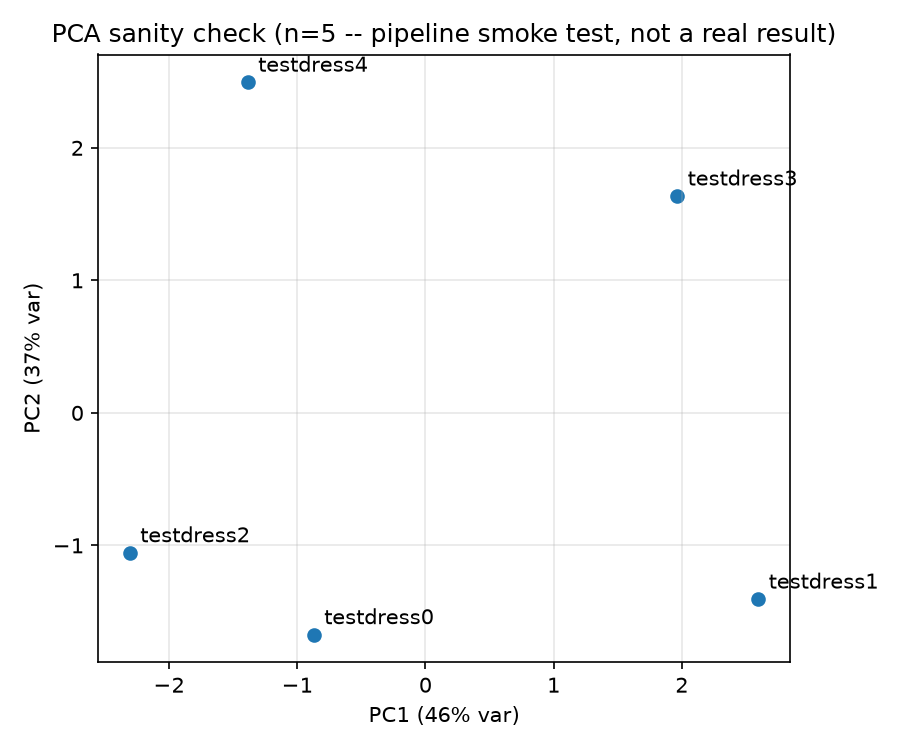
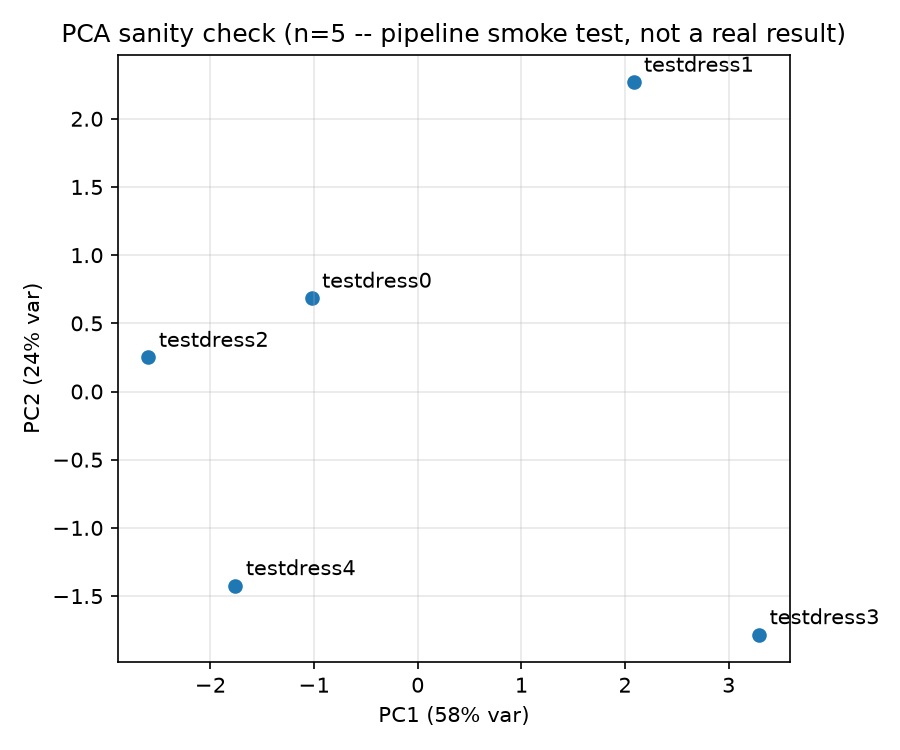
e

diff --git a/dense_features.py b/dense_features.py
@@ -1,0 +1,91 @@
+"""
+dense_features.py -- build one features.csv row straight from a dense
+RealityScan scan, skipping AutoRemesher retopology.
+
+Why: features from the retopologized mesh inherit its smoothing (surface_area
+~10% low, curvature magnitudes off by 0.6-1.7x, and volume undefined because
+of non-manifold quad poles). Decimating the dense scan instead keeps the real
+geometry and gives watertight meshes, so volume is defined. See
+experiments/dense_vs_retopo/ for the comparison.
+
+Pipeline: decimate_dense_textured.py (5M -> 100k faces) -> merge vertices by
+position (drops UV-seam splits so curvature sees a connected surface) ->
+connectivity check -> decimate_mesh.py to --target-vertices -> extract_features.
+
+Density is held fixed on purpose: curvature drifts systematically with mesh
+density (in a different direction per garment), but within 13k-17k vertices
+it varies only ~4% per garment vs a between-garment spread ~20x larger.
+
+The connectivity check fails on a fragmented scan (RealityScan's fold-collapse
+defect: coincident duplicate vertices leave the mesh in many pieces). Run
+weld_source.py on the raw scan first and pass the welded OBJ. Use
+--allow-open to override.
+
+Usage:
+    python dense_features.py --obj TestDress4.obj --garment-id testdress4 \\
+        --label "Test Dress 4" --out features.csv
+"""
+import argparse
+import os
+import subprocess
+import sys
+import tempfile
+
+import numpy as np
+import trimesh
+from scipy.sparse import coo_matrix
+from scipy.sparse.csgraph import connected_components
+
+import extract_features as ef
+
+HERE = os.path.dirname(os.path.abspath(__file__))
+
+
+def run_blender(script, *args):
+    subprocess.run(["blender", "--background", "--python", os.path.join(HERE, script), "--", *args],
+                   stdout=subprocess.DEVNULL, stderr=subprocess.DEVNULL, check=True)
+
+
+def connectivity(mesh):
+    f, n = mesh.faces, len(mesh.vertices)
+    a = np.concatenate([f[:, 0], f[:, 1], f[:, 2]])
+    b = np.concatenate([f[:, 1], f[:, 2], f[:, 0]])
+    _, labels = connected_components(coo_matrix((np.ones(len(a)), (a, b)), shape=(n, n)), directed=False)
+    sizes = np.bincount(labels[f[:, 0]])
+    edges = np.sort(mesh.edges, axis=1)
+    _, counts = np.unique(edges, axis=0, return_counts=True)
+    return int((sizes > 0).sum()), int((counts == 1).sum())
+
+
+def main():
+    p = argparse.ArgumentParser(description=__doc__, formatter_class=argparse.RawDescriptionHelpFormatter)
+    p.add_argument("--obj", required=True, help="Dense RealityScan OBJ (welded if the raw scan is fragmented)")
+    p.add_argument("--garment-id", required=True)
+    p.add_argument("--label", default="")
+    p.add_argument("--out", required=True, help="features.csv (row upserted)")
+    p.add_argument("--target-vertices", type=int, default=15000)
+    p.add_argument("--faces", type=int, default=100000, help="Intermediate dense decimation target (faces)")
+    p.add_argument("--allow-open", action="store_true", help="Continue even if the mesh is fragmented or has boundary edges")
+    a = p.parse_args()
+
+    with tempfile.TemporaryDirectory() as tmp:
+        dense, merged, final = (os.path.join(tmp, n) for n in ("dense.obj", "merged.obj", "final.obj"))
+        run_blender("decimate_dense_textured.py", a.obj, dense, str(a.faces))
+        raw = trimesh.load(dense, process=False, force="mesh")
+        m = trimesh.Trimesh(vertices=raw.vertices, faces=raw.faces, process=True)
+        components, boundary = connectivity(m)
+        print(f"  {a.garment_id}: {len(m.vertices)} verts, {len(m.faces)} faces, "
+              f"{components} component(s), {boundary} boundary edge(s), watertight={m.is_watertight}")
+        if (components > 1 or boundary > 0) and not a.allow_open:
+            sys.exit(f"ERROR: '{a.obj}' decimates to a fragmented/open mesh ({components} components, {boundary} boundary "
+                     "edges) -- curvature would be unreliable. Run weld_source.py on the raw scan and pass the welded OBJ, "
+                     "or use --allow-open to override.")
+        m.export(merged)
+        run_blender("decimate_mesh.py", "--input-obj", merged, "--output-obj", final, "--target-vertices", str(a.target_vertices))
+        row = ef.compute_features(ef.load_mesh(final), a.garment_id, a.label)
+        ef.upsert_row(a.out, row)
+    print(f"wrote row for '{a.garment_id}' to {a.out}")
+
+
+if __name__ == "__main__":
+    main()

diff --git a/pca_sanity_check.py b/pca_sanity_check.py
@@ -13,9 +13,11 @@ three garments.
 Eight columns are used: bbox_x/y/z, surface_area, mean_curvature,
 std_curvature, symmetry_score, and drape_extent (the latter two implemented
 2026-09-08 -- see extract_features.py's docstring for their definitions).
-`volume` is still all-NaN for every row (AutoRemesher's non-manifold quad
-poles, deliberately deferred) and is dropped rather than imputed --
-imputing a placeholder value would silently fabricate signal in a PCA.
+`volume` is added as a ninth column only when it has no NaNs (it was all-NaN
+for every row while features came from AutoRemesher's non-manifold retopology;
+meshes decimated from the dense scan are watertight so it is defined). If any
+row is NaN it is dropped rather than imputed -- imputing a placeholder value
+would silently fabricate signal in a PCA.
 num_vertices/num_faces are also excluded, for a different reason as of
 2026-09-08: now that every mesh is decimated to ~15,000 vertices before
 extraction (decimate_mesh.py), these columns are nearly constant across
@@ -48,13 +50,17 @@ def main():
     df = pd.read_csv(args.features)
     print(f"loaded {len(df)} rows from {args.features}")
 
-    dropped = [c for c in df.columns if c not in FEATURE_COLUMNS and c not in ("garment_id", "label")]
-    if dropped:
-        print(f"  dropping (NaN or density-confounded, not yet usable): {dropped}")
+    feature_columns = list(FEATURE_COLUMNS)
+    if "volume" in df.columns and not df["volume"].isna().any():
+        feature_columns.append("volume")
 
-    X = df[FEATURE_COLUMNS].to_numpy()
+    dropped = [c for c in df.columns if c not in feature_columns and c not in ("garment_id", "label")]
+    if dropped:
+        print(f"  dropping (NaN or uninformative, not used): {dropped}")
+
+    X = df[feature_columns].to_numpy()
     if np.isnan(X).any():
-        raise ValueError(f"unexpected NaN in {FEATURE_COLUMNS} -- these should all be well-defined columns")
+        raise ValueError(f"unexpected NaN in {feature_columns} -- these should all be well-defined columns")
 
     X_scaled = StandardScaler().fit_transform(X)
 
@@ -66,10 +72,9 @@ def main():
     print(f"cumulative: {np.cumsum(pca.explained_variance_ratio_)}")
     print(f"\nNOTE: n={len(df)} garments -- PCA rank-capped at {len(df) - 1} components.")
     print("This is a pipeline smoke test, not a statistically meaningful result.")
-    print("Revisit once the 5-garment Pilot Plan phase-2 target is reached.")
 
     print("\ncomponent loadings (how much each feature contributes to each PC):")
-    loadings = pd.DataFrame(pca.components_.T, index=FEATURE_COLUMNS,
+    loadings = pd.DataFrame(pca.components_.T, index=feature_columns,
                              columns=[f"PC{i+1}" for i in range(n_components)])
     print(loadings.round(3).to_string())
 

diff --git a/experiments/dense_vs_retopo/compare_feature_sources.py b/experiments/dense_vs_retopo/compare_feature_sources.py
@@ -1,0 +1,33 @@
+"""
+Compare features.csv (retopologized mesh, ~15k verts) against the same
+garments' features extracted from the dense RealityScan scan decimated to
+~15k verts (features_dense15k.csv) and to 100k faces (features_dense100k.csv).
+
+Inputs were built by: decimate_dense_textured.py (5M -> 100k faces; testdress0
+from its *welded* scan because the raw one is fragmented into ~1.5k pieces),
+trimesh merge-by-position (drops UV seam splits), decimate_mesh.py
+(--target-vertices 15000), then extract_features.py.
+
+Run from the repo root: python experiments/dense_vs_retopo/compare_feature_sources.py
+"""
+import pandas as pd
+from scipy.stats import pearsonr, spearmanr
+from sklearn.decomposition import PCA
+from sklearn.preprocessing import StandardScaler
+
+D = "experiments/dense_vs_retopo/"
+base = pd.read_csv("features.csv").set_index("garment_id").sort_index()
+d15 = pd.read_csv(D + "features_dense15k.csv").set_index("garment_id").sort_index()
+d100 = pd.read_csv(D + "features_dense100k.csv").set_index("garment_id").sort_index()
+feats = ["bbox_x", "bbox_y", "bbox_z", "surface_area", "mean_curvature", "std_curvature", "symmetry_score", "drape_extent"]
+pd.set_option("display.width", 200)
+
+print("ratio dense15k / retopo15k:\n", (d15[feats] / base[feats]).round(3))
+print("\nper-feature agreement retopo vs dense15k:")
+for f in feats:
+    print(f"  {f:15s} pearson {pearsonr(base[f], d15[f])[0]:.3f}  spearman {spearmanr(base[f], d15[f])[0]:.3f}")
+print("\ndensity sensitivity dense100k / dense15k:\n", (d100[feats[3:6]] / d15[feats[3:6]]).round(3))
+for name, df in (("retopo15k", base), ("dense15k", d15)):
+    p = PCA().fit(StandardScaler().fit_transform(df[feats]))
+    print(f"\n{name} PCA explained variance:", p.explained_variance_ratio_[:3].round(3))
+print("\nvolume (dense15k):", d15["volume"].round(0).to_dict())

diff --git a/README.md b/README.md
@@ -20,25 +20,29 @@ LTS) as a system install — it's a Blender script run via `blender
 
 ## Pipeline order
 
+Current flow (since 2026-09-23). Both branches start from the dense RealityScan
+OBJ + its texture; AutoRemesher retopology is no longer used by either.
+
 ```
-RealityScan export (OBJ)
-   ↓
-weld_source.py             <- this repo, run every scan
-   ↓
-AutoRemesher retopology
-   ↓
-bake_texture.py             <- this repo, via Blender, run every scan needing color
-   ↓
-assemble_textured_glb.py    <- this repo, run every scan needing color
-   ↓
-Blender preprocessing (crop/align)
-   ↓
-decimate_mesh.py            <- this repo, normalizes mesh density before extraction
-   ↓
-extract_features.py         <- this repo, upserts one row per garment into features.csv
-   ↓
-pca_sanity_check.py         <- this repo, PCA smoke test once a few rows exist
+RealityScan export (dense OBJ + diffuse texture)
+   |
+   +-- display:     dense_to_glb.py  ->  GLB for the frontend
+   |
+   +-- statistics:  weld_source.py      <- only if the scan is fragmented
+                       ↓                   (dense_features.py refuses those)
+                    dense_features.py   <- decimate -> merge -> connectivity
+                       ↓                   check -> 15k vertices ->
+                       ↓                   extract_features.py
+                    features.csv
+                       ↓
+                    pca_sanity_check.py <- PCA smoke test
 ```
+
+Retired for the display and statistics paths (kept as history and in case
+they're needed again): AutoRemesher retopology, `bake_texture.py`,
+`assemble_textured_glb.py`, and `decimate_mesh.py` as a standalone step
+(`dense_features.py` still calls it internally). Previous retopology-based
+results are in `features_retopo_v1.csv`.
 
 ## Scripts
 
@@ -248,13 +252,42 @@ Upserts one row per `--garment-id` into `features.csv` (re-running the same
 ID replaces that row rather than duplicating it). Computes bounding box,
 surface area, volume, and mean/std curvature; auto-corrects for a real
 per-scan Z-up vs Y-up inconsistency confirmed across garments in this
-project. `volume` is currently NaN for every garment — AutoRemesher's quad
-retopology leaves a handful of non-manifold edges even after `weld_source.py`
-closes all boundary edges, which fails `trimesh.is_watertight`'s stricter
-check; `symmetry_score`/`drape_extent` are undefined placeholders pending a
-methodology decision. See the project vault
+project. `symmetry_score` and `drape_extent` are implemented (see the
+docstring). `volume` was NaN for every garment while features came from the
+AutoRemesher mesh — its quad retopology leaves non-manifold edges that fail
+`trimesh.is_watertight` — but is defined for meshes decimated from the dense
+scan (see `dense_features.py` below). See the project vault
 (`concepts/garment-capture/garment-feature-extraction.md`) for the full
 gotcha writeup.
+
+### `dense_features.py`
+
+**How `features.csv` is now built (since 2026-09-23).** Builds a row straight
+from a dense RealityScan scan, skipping AutoRemesher:
+
+```bash
+python dense_features.py --obj TestDress4.obj --garment-id testdress4 \
+    --label "Test Dress 4" --out features.csv
+```
+
+Decimates the dense scan (5M -> 100k faces), merges vertices by position, checks
+connectivity, decimates to `--target-vertices` (default 15,000), and runs
+`extract_features`. Why: the retopologized mesh's smoothing biased the features
+(`surface_area` ~10% low, curvature 0.6-1.7x off, `volume` undefined); see
+`experiments/dense_vs_retopo/`. The **connectivity check refuses a fragmented
+or open mesh** (raw `TestDress0.obj` decimates to 1,548 pieces — RealityScan's
+fold-collapse defect), telling you to run `weld_source.py` first and pass the
+welded OBJ, as was done for `testdress0`.
+
+Density is held fixed deliberately: mean curvature drifts *systematically* with
+mesh density (differently per garment: `testdress3` 0.81 -> 0.94 from 13k to 50k
+vertices, `testdress1` 0.25 -> 0.22), but within 13k-17k vertices it varies
+only ~4% per garment vs a between-garment spread ~20x larger (signal-to-noise
+22-113 for every feature; `volume` is essentially exact). The 13k-17k band was
+more stable than 25k-50k on symmetry and drape, so 15k stays the target.
+
+`features_retopo_v1.csv` / `pca_sanity_check_retopo_v1.png` preserve the
+previous retopology-based results.
 
 ### `pca_sanity_check.py`
 
@@ -265,11 +298,11 @@ real statistical result until the 5-garment pilot target is reached):
 python pca_sanity_check.py --features features.csv --out pca_sanity_check.png
 ```
 
-Z-score standardizes the well-defined, non-NaN columns (`bbox_x/y/z`,
-`surface_area`, `mean_curvature`, `std_curvature`) and runs PCA, printing
-explained variance and component loadings and saving a labeled scatter
-plot. Deliberately excludes `volume`/`symmetry_score`/`drape_extent`
-(all-NaN so far — dropped rather than imputed, to avoid fabricating signal)
-and `num_vertices`/`num_faces` (density isn't normalized across garments
-yet, so these currently measure retopology resolution more than shape).
+Z-score standardizes eight columns (`bbox_x/y/z`, `surface_area`,
+`mean_curvature`, `std_curvature`, `symmetry_score`, `drape_extent`), plus
+`volume` when it has no NaNs, and runs PCA, printing explained variance and
+component loadings and saving a labeled scatter plot. Any column with NaNs is
+dropped rather than imputed, to avoid fabricating signal. `num_vertices` /
+`num_faces` are excluded because every mesh is decimated to ~15k vertices, so
+they're near-constant by construction and carry no shape signal.
 Requires `pandas`, `scikit-learn`, and `matplotlib` (in `requirements.txt`).
